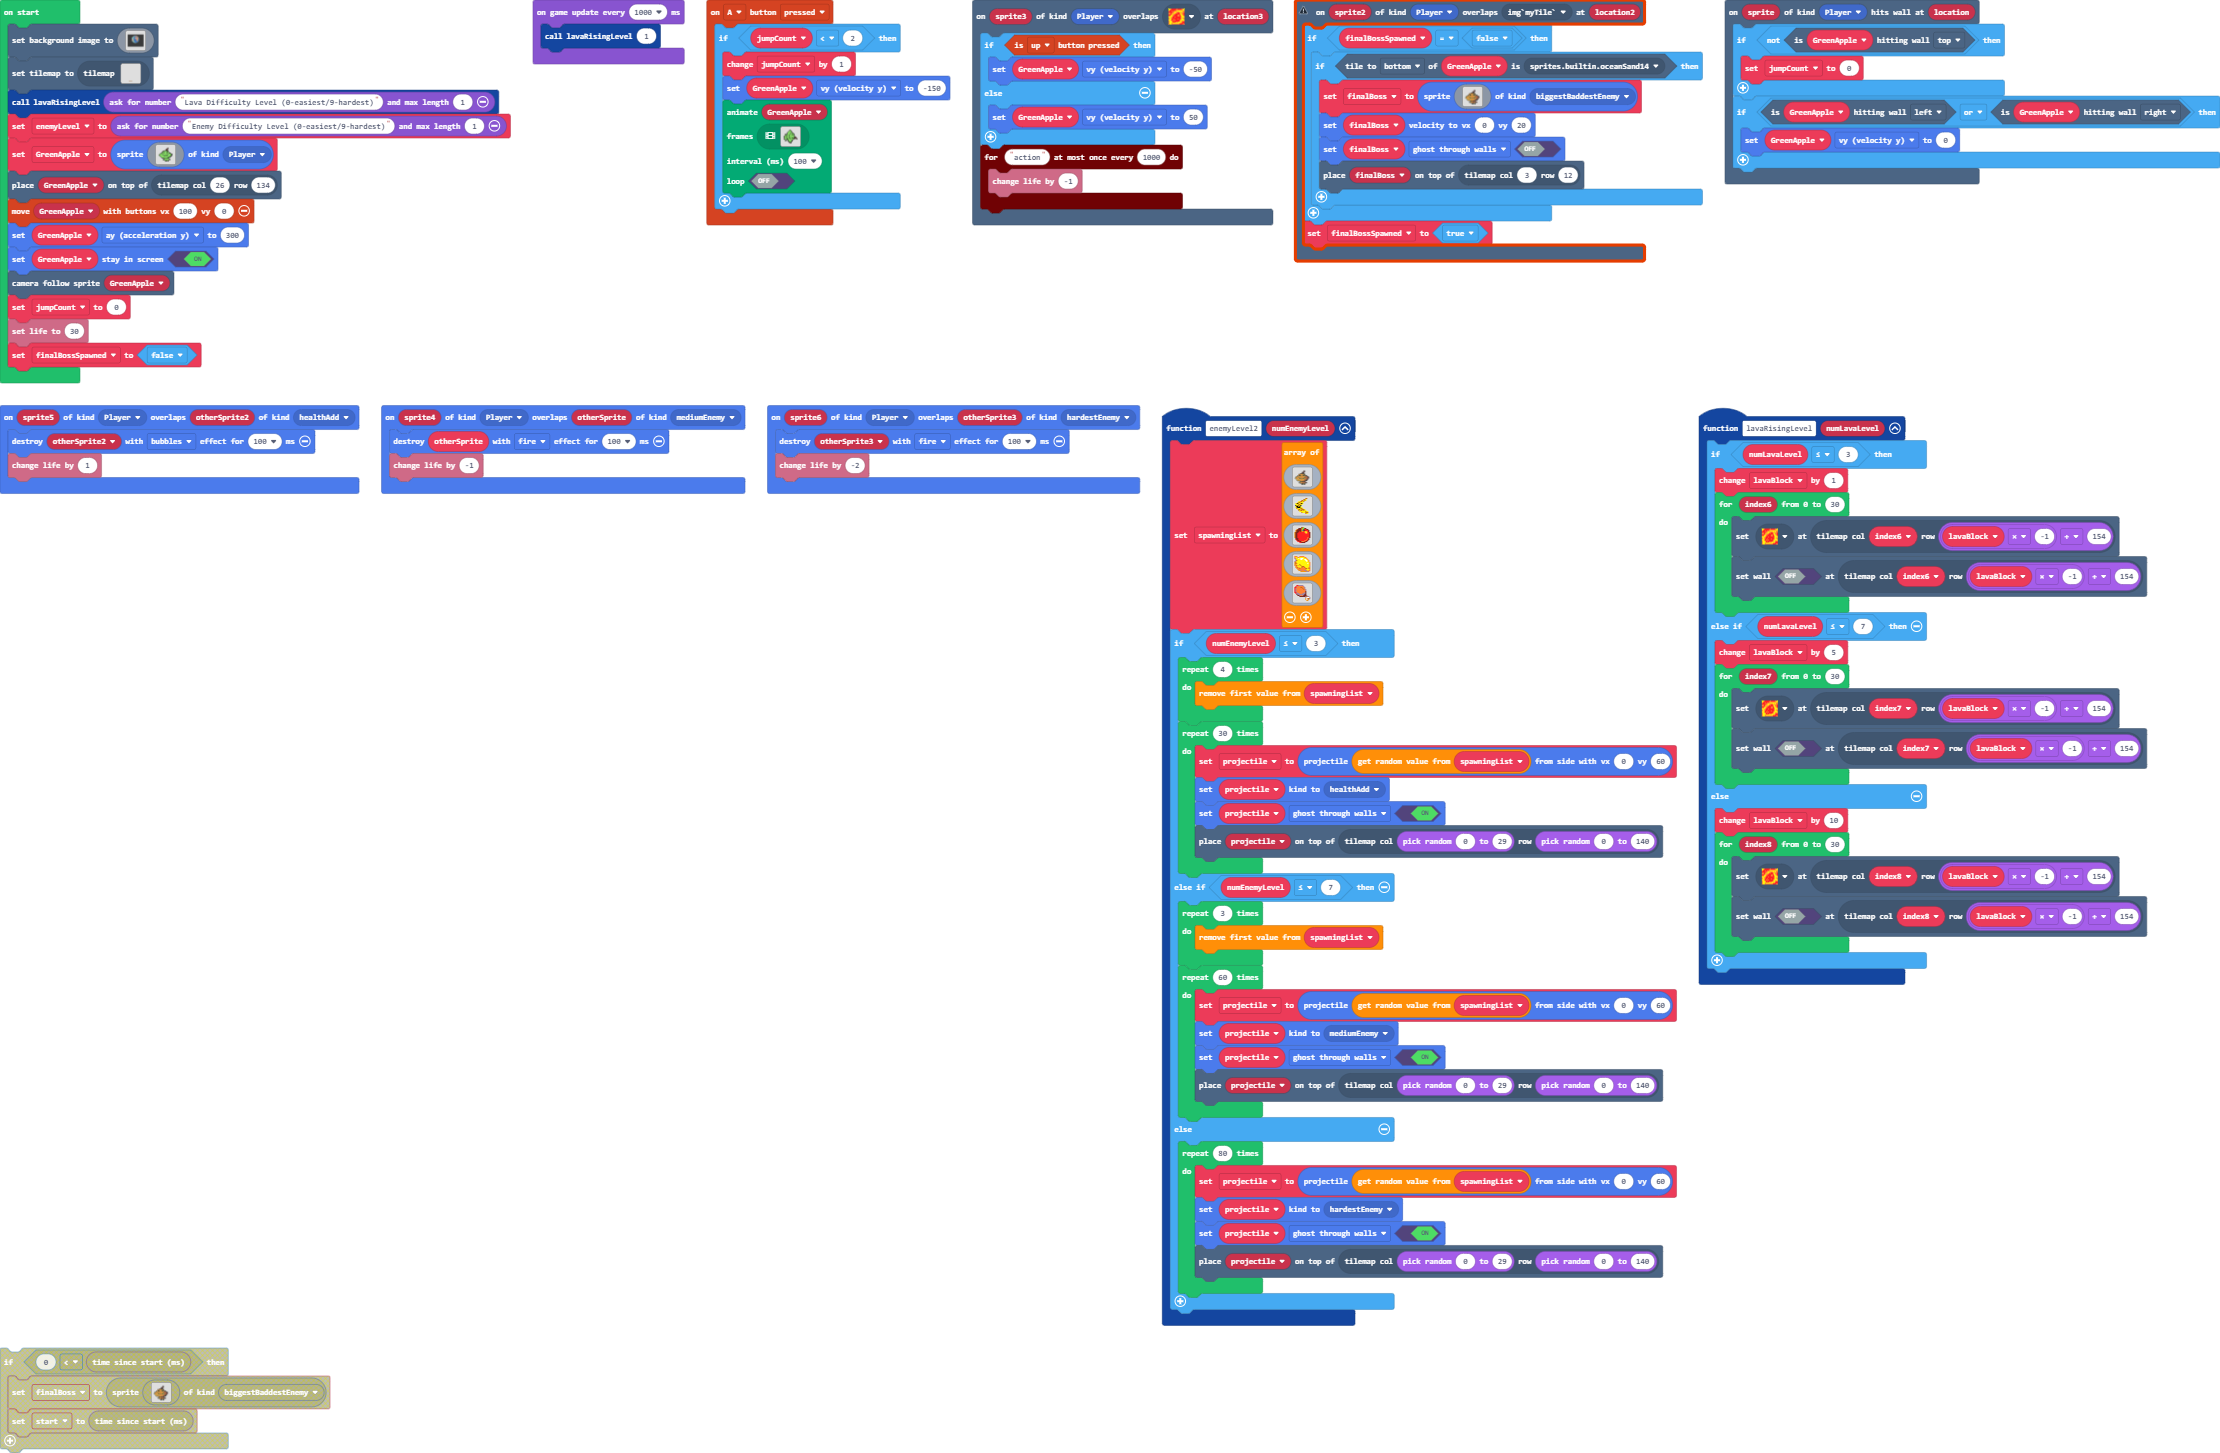
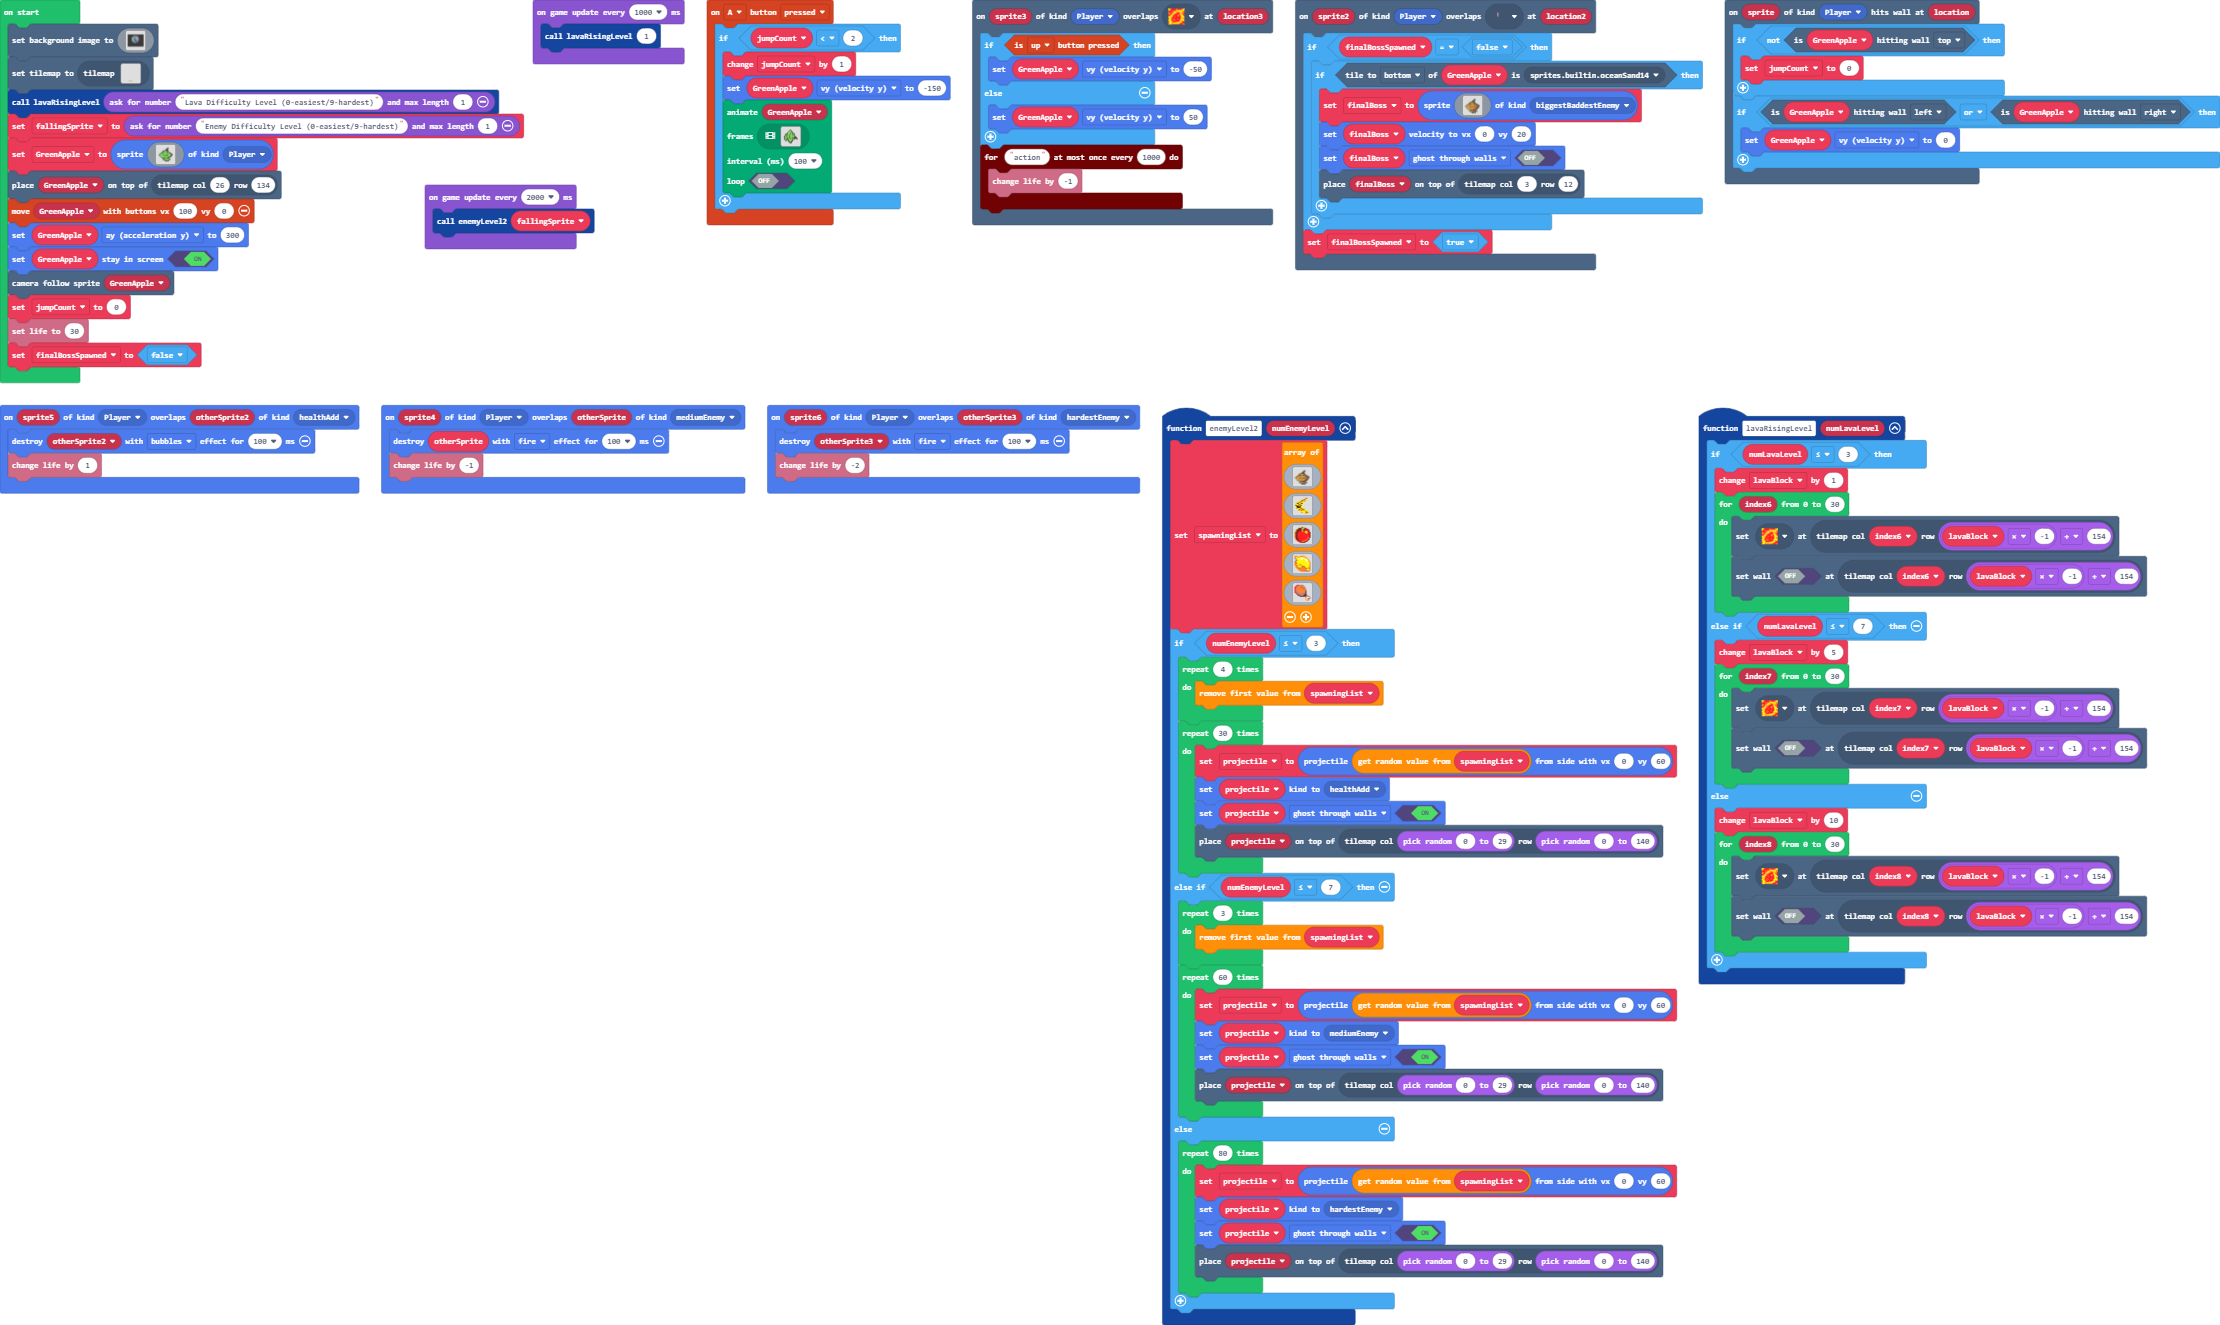
game update

Changed region(s): [[0.0, 0.0, 0.9946, 1.0], [0.2486, 0.0, 1.0, 0.2166], [0.0, 0.9283, 0.1554, 1.0]]

diff --git a/tilemap.g.ts b/tilemap.g.ts
@@ -2,11 +2,13 @@
 namespace myTiles {
     //% fixedInstance jres blockIdentity=images._tile
     export const transparency16 = image.ofBuffer(hex``);
+    //% fixedInstance jres blockIdentity=images._tile
+    export const tile1 = image.ofBuffer(hex``);
 
     helpers._registerFactory("tilemap", function(name: string) {
         switch(helpers.stringTrim(name)) {
             case "level1":
[2 lines of base64/hex data omitted]
 ..............................
 ..............................
 ..............................
@@ -147,7 +149,7 @@ namespace myTiles {
 ..............................
 ..............................
 ..............................
-`, [myTiles.transparency16,sprites.dungeon.hazardLava0,sprites.builtin.oceanDepths0,sprites.builtin.oceanDepths9], TileScale.Sixteen);
+`, [myTiles.transparency16,sprites.dungeon.hazardLava0,sprites.builtin.oceanDepths0,sprites.builtin.oceanDepths9,myTiles.tile1], TileScale.Sixteen);
         }
         return null;
     })
@@ -155,6 +157,8 @@ namespace myTiles {
     helpers._registerFactory("tile", function(name: string) {
         switch(helpers.stringTrim(name)) {
             case "transparency16":return transparency16;
+            case "myTile":
+            case "tile1":return tile1;
         }
         return null;
     })

diff --git a/main.ts b/main.ts
@@ -245,7 +245,7 @@ function lavaRisingLevel (numLavaLevel: number) {
         }
     }
 }
-scene.onOverlapTile(SpriteKind.Player, img`myTile`, function (sprite2, location2) {
+scene.onOverlapTile(SpriteKind.Player, assets.tile`myTile`, function (sprite2, location2) {
     if (finalBossSpawned == false) {
         if (GreenApple.tileKindAt(TileDirection.Bottom, sprites.builtin.oceanSand14)) {
             finalBoss = sprites.create(assets.image`archnemesis`, SpriteKind.biggestBaddestEnemy)
@@ -387,7 +387,7 @@ scene.setBackgroundImage(img`
     `)
 tiles.setCurrentTilemap(tilemap`level1`)
 lavaRisingLevel(game.askForNumber("Lava Difficulty Level (0-easiest/9-hardest)", 1))
-let enemyLevel = game.askForNumber("Enemy Difficulty Level (0-easiest/9-hardest)", 1)
+let fallingSprite = game.askForNumber("Enemy Difficulty Level (0-easiest/9-hardest)", 1)
 GreenApple = sprites.create(assets.image`myImage`, SpriteKind.Player)
 tiles.placeOnTile(GreenApple, tiles.getTileLocation(26, 134))
 controller.moveSprite(GreenApple, 100, 0)
@@ -397,6 +397,9 @@ scene.cameraFollowSprite(GreenApple)
 jumpCount = 0
 info.setLife(30)
 finalBossSpawned = false
+game.onUpdateInterval(2000, function () {
+    enemyLevel2(fallingSprite)
+})
 game.onUpdateInterval(1000, function () {
     lavaRisingLevel(1)
 })
